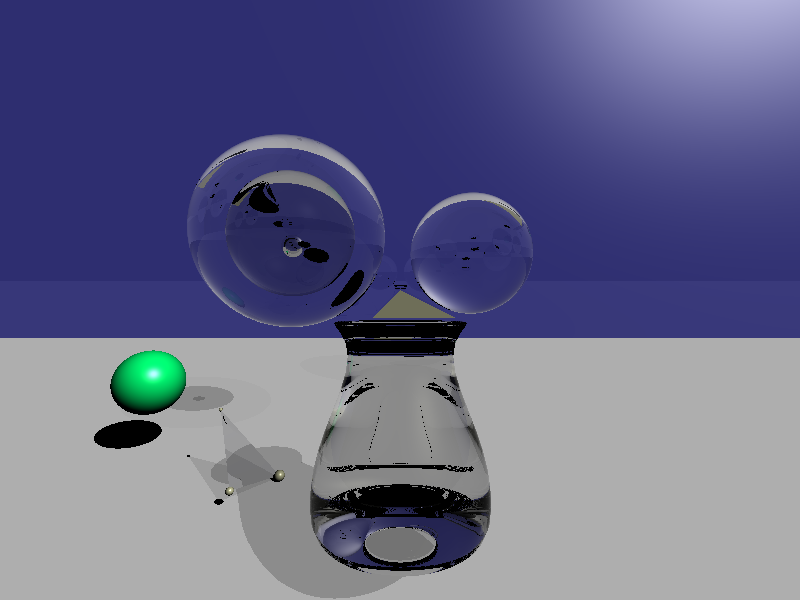
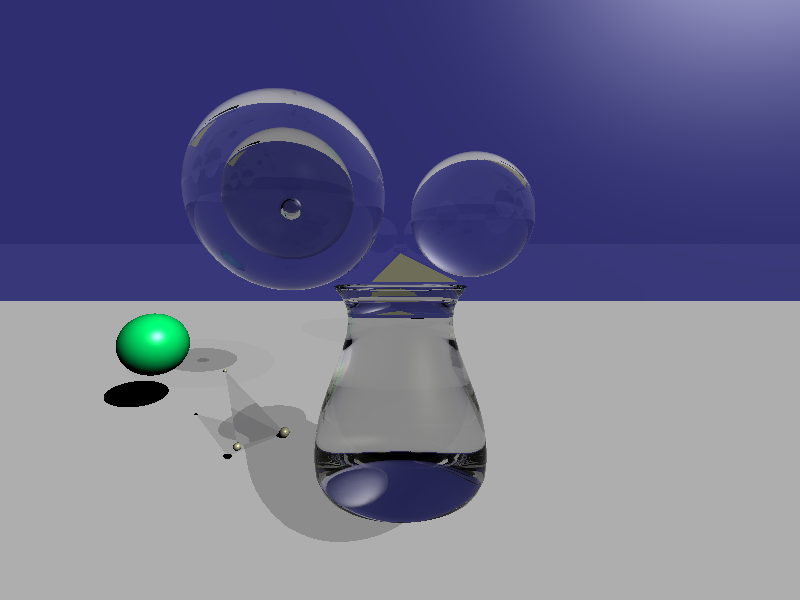
bugfixes

diff --git a/main.cpp b/main.cpp
@@ -141,7 +141,7 @@ int main(int argc, char **argv)
     tri2.diffuse = vector3df(0.5, 0.5, 0.5);
 
     bezier_curve bc = bezier_curve::load("bezier_curve.txt");
-    mesh m = bc.to_rotate_surface_mesh(0.01, 0.36);
+    mesh m = bc.to_rotate_surface_mesh(0.05, 3.6);
     for (auto &v : m.vertices)
     {
         v = v * 10.0;
@@ -151,10 +151,10 @@ int main(int argc, char **argv)
     }
     object &mo = w.add_object(std::make_shared<mesh_object>(m));
     mo.diffuse = vector3df(0.24, 0.48, 0.53);
-    /*mo.diffuse = vector3df::zero;
+    mo.diffuse = vector3df::zero;
     mo.refractiveness = vector3df::one * 0.9; // vector3df(0.0, 0.5, 1.0) * 0.9;
     mo.refractive_index = 1.333;
-    mo.reflectiveness = 0.9;*/
+    mo.reflectiveness = 0.9;
     object &box = w.add_object(std::make_shared<aa_box>(vector3df(60.0, -50.0, -220.0),
                                                         vector3df(20.0, 30.0, 190.0)));
     box.diffuse = vector3df(0.24, 0.48, 0.53);
@@ -209,7 +209,7 @@ int main(int argc, char **argv)
         }
     }*/
 
-    camera c(w, vector3df(0.0, -1.0, 147.0), vector3df(0.0, 0.05, -1.0).normalize(), vector3df(0.0, 1.0, 0.0));
+    camera c(w, vector3df(0.0, 1.0, 147.0), vector3df(0.0, -0.05, -1.0).normalize(), vector3df(0.0, 1.0, 0.0));
         
     // Performance test.
     for (int N = 1; N <= 1; ++N)

diff --git a/mesh_object.cpp b/mesh_object.cpp
@@ -26,19 +26,22 @@ mesh_object::mesh_object(const mesh &m)
 
         // make normal vector and its count
         double area = cache.E1xE2.length() / 2.0; // = weight
-        vector3df weighted_n = cache.n * area;
-        count[tri.x] += area;
-        _n[tri.x] += weighted_n;
-        count[tri.y] += area;
-        _n[tri.y] += weighted_n;
-        count[tri.z] += area;
-        _n[tri.z] += weighted_n;
+        if (area > eps)
+        {
+            vector3df weighted_n = cache.n * area;
+            count[tri.x] += area;
+            _n[tri.x] += weighted_n;
+            count[tri.y] += area;
+            _n[tri.y] += weighted_n;
+            count[tri.z] += area;
+            _n[tri.z] += weighted_n;
+        }
     }
 
     // calc normal vectors of vertices
     for (std::size_t i = 0; i < _v.size(); ++i)
     {
-        _n[i] = _n[i] / count[i];
+        _n[i] = (_n[i] / count[i]).normalize();
     }
 
     printf("building kd-tree\n");
@@ -139,7 +142,7 @@ vector3df mesh_object::get_normal_vector(const triangle_intersect_result &tir) c
     const vector3df &n_a = _n[tri.x], &n_b = _n[tri.y], &n_c = _n[tri.z];
     vector3df n = n_a * tir.alpha + n_b * tir.beta + n_c * tir.gamma;
     n = n.normalize();
-    n = _caches[tir.index].n; // FIXME
+    // n = _caches[tir.index].n; // FIXME
     return n;
 }
 

diff --git a/aa_cube.cpp b/aa_cube.cpp
@@ -29,6 +29,7 @@ intersect_result aa_cube::intersect(const ray &r) const
 
     // find planes to intersect
     std::size_t front_back, left_right, top_bottom;
+    bool inside = false;
     if (!is_inside(r.origin))
     {
         if (r.direction.x > eps)
@@ -72,6 +73,7 @@ intersect_result aa_cube::intersect(const ray &r) const
     }
     else
     {
+        inside = true;
         if (r.direction.x > eps)
         {
             left_right = right;
@@ -153,9 +155,19 @@ intersect_result aa_cube::intersect(const ray &r) const
     std::size_t furthest_index = 0;
     for (std::size_t i = 1; i < 3; ++i)
     {
-        if (intersection[furthest_index] < intersection[i])
+        if (!inside)
         {
-            furthest_index = i;
+            if (intersection[furthest_index] < intersection[i])
+            {
+                furthest_index = i;
+            }
+        }
+        else
+        {
+            if (intersection[furthest_index] > intersection[i])
+            {
+                furthest_index = i;
+            }
         }
     }
 

diff --git a/aa_cube.h b/aa_cube.h
@@ -18,9 +18,9 @@ public:
     bool is_inside(const vector3df &p0) const
     {
         vector3df p2 = p + size;
-        return p.x <= p0.x && p0.x <= p2.x && 
-               p.y <= p0.y && p0.y <= p2.y &&
-               p.z <= p0.z && p0.z <= p2.z;
+        return p.x - eps <= p0.x && p0.x <= p2.x + eps &&
+               p.y - eps <= p0.y && p0.y <= p2.y + eps &&
+               p.z - eps <= p0.z && p0.z <= p2.z + eps;
     }
 
     intersect_result intersect(const ray &r) const;

diff --git a/kd_tree.hpp b/kd_tree.hpp
@@ -125,7 +125,7 @@ typename kd_tree<T>::node *kd_tree<T>::_build(std::vector<T> &points,
                                               const aa_cube &range, const aa_cube &other_range,
                                               std::size_t split_dim, std::size_t depth)
 {
-    if (depth >= 32) // too deep
+    if (depth >= 1) // too deep
     {
         // printf("too deep %llu\n", end - begin);
         return nullptr;
